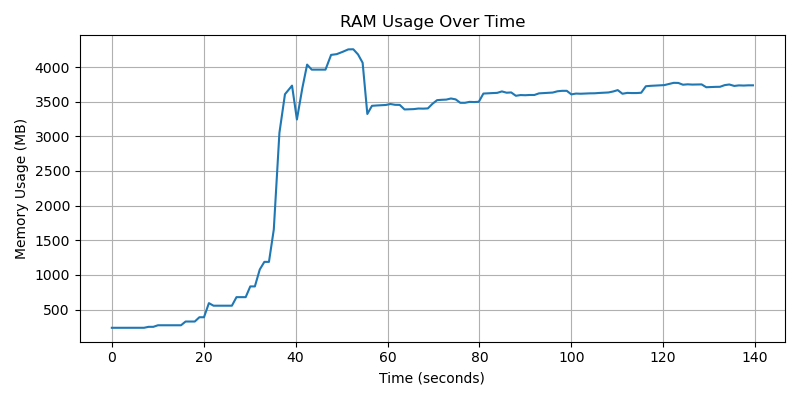
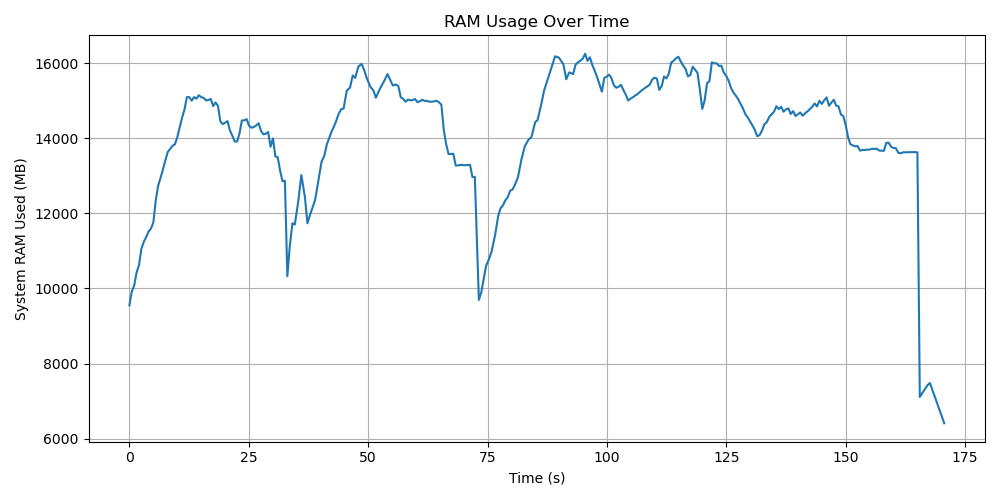
Add clustering of full trips

diff --git a/functions.py b/functions.py
@@ -1,24 +1,26 @@
 import os
 import time
-import psutil
+import csv
 import threading
+from math import radians, sin, cos, sqrt, atan2
+from multiprocessing import Pool, Process, Manager
+
+import psutil
+
 import pandas as pd
 import numpy as np
-from math import radians, sin, cos, sqrt, atan2
-from multiprocessing import Pool
 
 import matplotlib.pyplot as plt
 import seaborn as sns
 
 import geopandas as gpd
 import contextily as ctx
+from shapely.geometry import LineString
+
 from sklearn.cluster import KMeans
+from sklearn.preprocessing import StandardScaler
 
 NUM_CORES = 11
-
-# Memory tracking
-memory_log = []
-track_running = True
 
 # Cluster colors
 CLUSTER_COLORS = {
@@ -27,39 +29,45 @@ CLUSTER_COLORS = {
     2: "#d62728",  # red
 }
 
-# Functions for Memory Tracking
-def start_memory_tracker():
-    global track_running
-    track_running = True
-    threading.Thread(target=memory_tracker, daemon=True).start()
 
-def stop_memory_tracker():
-    global track_running
-    track_running = False
+# Ram Usage tracking (System-wide)
+_memory_log = []
 
-def memory_tracker(interval=1.0):
-    process = psutil.Process(os.getpid())
-    while track_running:
-        mem_mb = process.memory_info().rss / (1024 ** 2)
-        memory_log.append((time.time(), mem_mb))
+def _memory_tracker_system(interval=0.5):
+    while True:
+        used_mb = psutil.virtual_memory().used / 1024**2
+        _memory_log.append((time.time(), used_mb))
         time.sleep(interval)
 
-def plot_memory_usage(output_path="ram_usage.png"):
-    if not memory_log:
+def start_memory_tracker_thread(interval=0.5):
+    t = threading.Thread(target=_memory_tracker_system,
+                         args=(interval,),
+                         daemon=True)
+    t.start()
+    return t
+
+def save_memory_log(path="output/memory_log.csv"):
+    if not _memory_log:
         print("No memory data recorded.")
         return
-    timestamps, mem_usage = zip(*memory_log)
-    timestamps = [t - timestamps[0] for t in timestamps]
-    plt.figure(figsize=(8, 4))
-    plt.plot(timestamps, mem_usage, label="RAM (MB)")
-    plt.xlabel("Time (seconds)")
-    plt.ylabel("Memory Usage (MB)")
+    df = pd.DataFrame(_memory_log, columns=["timestamp","used_mb"])
+    df["timestamp"] -= df["timestamp"].iloc[0]
+    df.to_csv(path, index=False)
+    print(f"Memory log saved to {path}")
+
+def plot_memory_usage(log_path="output/memory_log.csv",
+                      output_path="output/ram_usage.png"):
+    df = pd.read_csv(log_path)
+    plt.figure(figsize=(10,5))
+    plt.plot(df["timestamp"], df["used_mb"])
+    plt.xlabel("Time (s)")
+    plt.ylabel("System RAM Used (MB)")
     plt.title("RAM Usage Over Time")
     plt.grid(True)
     plt.tight_layout()
     plt.savefig(output_path)
-    print(f"RAM usage plot saved to {output_path}")
     plt.close()
+    print(f"RAM usage plot saved to {output_path}")
 
 # Remove invalid coordinates
 def is_valid_coordinate(lat, lng):
@@ -73,6 +81,25 @@ def haversine(row):
     return 6371 * 2 * atan2(sqrt(a), sqrt(1-a))
 
 # Read and process the files by calculating haversine distance and getting rid of invalid/outliers
+
+def chunkify(lst, n_chunks):
+    k, m = divmod(len(lst), n_chunks)
+    return [lst[i * k + min(i, m):(i + 1) * k + min(i + 1, m)] for i in range(n_chunks)]
+
+def process_file_chunk(file_chunk):
+    all_dfs = []
+    total_removed_invalid = 0
+    total_removed_outliers = 0
+
+    for file_path in file_chunk:
+        df, removed_invalid, removed_outliers = process_file(file_path)
+        all_dfs.append(df)
+        total_removed_invalid += removed_invalid
+        total_removed_outliers += removed_outliers
+
+    return pd.concat(all_dfs, ignore_index=True), total_removed_invalid, total_removed_outliers
+
+
 def process_file(file_path):
     df = pd.read_csv(file_path, parse_dates=['started_at', 'ended_at'])
     initial_len = len(df)
@@ -185,3 +212,94 @@ def plot_volume_clusters_with_map(clustered_df, centers, day_name, output_path):
     plt.tight_layout()
     plt.savefig(output_path, bbox_inches="tight")
     plt.close()
+
+# Clustering the count of trips for each station.
+def cluster_and_plot_volume_one_day(day_df, day_name, n_clusters=3, output_dir="output"):
+    grouped = day_df.groupby(['start_station_name', 'start_lat', 'start_lng']) \
+        .size().reset_index(name='ride_count')
+
+    coords = grouped[['start_lat', 'start_lng', 'ride_count']].to_numpy()
+    kmeans = KMeans(n_clusters=n_clusters, n_init=10, random_state=42).fit(coords)
+    grouped["cluster"] = kmeans.labels_
+
+    # Create GeoDataFrames
+    gdf = gpd.GeoDataFrame(
+        grouped,
+        geometry=gpd.points_from_xy(grouped["start_lng"], grouped["start_lat"]),
+        crs="EPSG:4326"
+    ).to_crs(epsg=3857)
+
+    center_gdf = gpd.GeoDataFrame(
+        geometry=gpd.points_from_xy(kmeans.cluster_centers_[:, 1], kmeans.cluster_centers_[:, 0]),
+        crs="EPSG:4326"
+    ).to_crs(epsg=3857)
+
+    gdf["color"] = gdf["cluster"].map(CLUSTER_COLORS)
+
+    # Plot
+    fig, ax = plt.subplots(figsize=(10, 8))
+    gdf.plot(ax=ax, color=gdf["color"], markersize=gdf["ride_count"] / 10)
+    center_gdf.plot(ax=ax, color="black", marker="x", markersize=80)
+    ctx.add_basemap(ax, source=ctx.providers.CartoDB.Positron)
+    ax.set_title(f"Clusters by Station Ride Volume — {day_name}")
+    plt.axis("off")
+
+    os.makedirs(output_dir, exist_ok=True)
+    output_path = os.path.join(output_dir, f"volume_cluster_{day_name}.png")
+    plt.savefig(output_path, bbox_inches="tight")
+    plt.close()
+
+    return (day_name, kmeans.cluster_centers_)
+
+
+def parallel_cluster_volume_and_plot(df, n_clusters=3, processes=7):
+    grouped_days = [(df[df["day_of_week"] == day], day) for day in df["day_of_week"].unique()]
+    with Pool(processes=processes) as pool:
+        results = pool.starmap(
+            cluster_and_plot_volume_one_day,
+            [(day_df, day, n_clusters, "output") for day_df, day in grouped_days]
+        )
+    return results
+
+
+# Different approach to clustering - clustering full trips instead of just the starting positions
+def cluster_full_trip_routes(df, day_name, n_clusters=5, output_dir="output"):
+    df = df.copy()
+
+    # Select and scale coordinates
+    coords = df[["start_lat", "start_lng", "end_lat", "end_lng"]].to_numpy()
+    coords_scaled = StandardScaler().fit_transform(coords)
+
+    # Fit KMeans
+    kmeans = KMeans(n_clusters=n_clusters, n_init=10, random_state=42)
+    df["trip_cluster"] = kmeans.fit_predict(coords_scaled)
+
+    # Create LineStrings for plotting
+    df["geometry"] = df.apply(
+        lambda r: LineString([(r["start_lng"], r["start_lat"]), (r["end_lng"], r["end_lat"])]),
+        axis=1
+    )
+    gdf = gpd.GeoDataFrame(df, geometry="geometry", crs="EPSG:4326").to_crs(epsg=3857)
+
+    os.makedirs(output_dir, exist_ok=True)
+    plot_path = os.path.join(output_dir, f"trip_clusters_{day_name}.png")
+
+    fig, ax = plt.subplots(figsize=(6, 8))  # Narrower, to match station clusters
+    gdf.plot(ax=ax, column="trip_cluster", cmap="tab10", linewidth=1, alpha=0.6, legend=False)
+    ctx.add_basemap(ax, source=ctx.providers.CartoDB.Positron)
+    ax.set_title(f"Trip Route Clusters — {day_name}", fontsize=12)
+    ax.set_axis_off()
+    fig.tight_layout(pad=0)
+    plt.savefig(plot_path, bbox_inches='tight', dpi=150)
+    plt.close()
+
+    return f"Saved: {plot_path}"
+
+
+def parallel_trip_route_clustering(df_all, n_clusters=5, processes=7, output_dir="output"):
+    os.makedirs(output_dir, exist_ok=True)
+    grouped = [(df_all[df_all["day_of_week"] == day], day, n_clusters, output_dir)
+               for day in df_all["day_of_week"].unique()]
+    with Pool(processes=processes) as pool:
+        results = pool.starmap(cluster_full_trip_routes, grouped)
+    return results

diff --git a/bike_rent.py b/bike_rent.py
@@ -3,72 +3,76 @@ from functions import *
 from tqdm import tqdm
 import pandas as pd
 import time
+import os
+from multiprocessing import Pool, freeze_support
 
 DATA_PATH = "data/*.csv"
 
 def main():
     start = time.time()
-    start_memory_tracker()
 
-    # Data Reading/Cleaning
+    # Starting memory tracking
 
+    # --- Data Reading & Cleaning ---
     file_paths = glob(DATA_PATH)
     print(f"Found {len(file_paths)} files.")
+    file_chunks = chunkify(file_paths, NUM_CORES)
 
-    with Pool(NUM_CORES) as pool:
-        results = list(tqdm(pool.imap_unordered(process_file, file_paths), total=len(file_paths)))
+    with Pool(processes=NUM_CORES) as pool:
+        results = list(tqdm(pool.imap_unordered(process_file_chunk, file_chunks), total=len(file_chunks)))
 
-    cleaned_dfs = [res[0] for res in results]
-    total_removed_coords = sum(res[1] for res in results)
-    total_removed_outliers = sum(res[2] for res in results)
+    # --- Combine cleaned data ---
+    dfs, removed_invalids, removed_outliers = zip(*results)
+    df_all = pd.concat(dfs, ignore_index=True)
+    print(f"Rows removed (coords): {sum(removed_invalids)}")
+    print(f"Rows removed (outliers): {sum(removed_outliers)}")
 
-    print(f"Rows removed (coords): {total_removed_coords}")
-    print(f"Rows removed (outliers): {total_removed_outliers}")
-
-    df_all = pd.concat(cleaned_dfs, ignore_index=True)
     df_all = calculate_speed(df_all)
 
-    # Analysis
+    # --- Statistical Analyses ---
     top_stations, top_paths, weekday_stats, top_routes = run_sequential_analyses(df_all)
-
     print("\nTop 10 Start Stations:")
     print(top_stations)
-
-    print("\nTop 10 Slowest Paths (avg minutes per km):")
+    print("\nTop 10 Slowest Paths:")
     print(top_paths)
-
-    print("\nTrip Stats by Day of the Week:")
+    print("\nTrip Stats by Day:")
     print(weekday_stats)
-    print("Fastest day:", weekday_stats['avg_speed'].idxmax())
-    print("Slowest day:", weekday_stats['avg_speed'].idxmin())
-
-    print("\nTop 10 Most Frequent Routes:")
+    print("Fastest:", weekday_stats['avg_speed'].idxmax(), "Slowest:", weekday_stats['avg_speed'].idxmin())
+    print("\nTop 10 Routes:")
     print(top_routes)
 
-
-    # Clustering
+    # --- Directory for saving ---
     output_dir = "output"
     os.makedirs(output_dir, exist_ok=True)
 
-    results = parallel_cluster_by_volume_all_days(df_all, n_clusters=3)
+    # --- Clustering by Station Volume ---
+    print("Starting volume clustering...")
+    parallel_cluster_volume_and_plot(df_all, n_clusters=3, processes=NUM_CORES)
+    print("Volume clustering complete.")
 
-    for (day_df, centers), day in zip(results, df_all['day_of_week'].unique()):
-        output_path = f"output/volume_cluster_{day}.png"
-        plot_volume_clusters_with_map(day_df, centers, day, output_path)
+    # --- Clustering Full Trips ---
+    print("Starting full trip clustering...")
+    trip_results = parallel_trip_route_clustering(df_all, n_clusters=3, output_dir=output_dir)
+    for r in trip_results:
+        print(r)
+    print("Full trip clustering complete.")
 
-    print("Clusterisation for each day complete")
+    # --- Visualizations ---
+    plot_stat_by_day(weekday_stats, 'avg_duration', 'Average Duration (min)', f'{output_dir}/avg_duration_by_day.png')
+    plot_stat_by_day(weekday_stats, 'avg_distance', 'Average Distance (km)', f'{output_dir}/avg_distance_by_day.png')
+    plot_stat_by_day(weekday_stats, 'trip_count', 'Trip Count', f'{output_dir}/trip_count_by_day.png', agg_func='value')
 
-    plot_stat_by_day(weekday_stats, 'avg_duration', 'Average Duration (min)', 'output/avg_duration_by_day.png')
-    plot_stat_by_day(weekday_stats, 'avg_distance', 'Average Distance (km)', 'output/avg_distance_by_day.png')
-    plot_stat_by_day(weekday_stats, 'trip_count', 'Trip Count', 'output/trip_count_by_day.png', agg_func='value')
+    # --- Stop memory tracking ---
 
-    plot_memory_usage("output/ram_usage.png")
-    stop_memory_tracker()
-
-    end = time.time()
-    print(f"Total execution time: {end - start:.2f} seconds")
+    print(f"Total execution time: {time.time() - start:.2f} seconds")
 
 if __name__ == "__main__":
     from multiprocessing import freeze_support
     freeze_support()
+
+    start_memory_tracker_thread(interval=0.5)
+
     main()
+
+    save_memory_log("output/memory_log.csv")
+    plot_memory_usage("output/memory_log.csv", "output/ram_usage.png")
